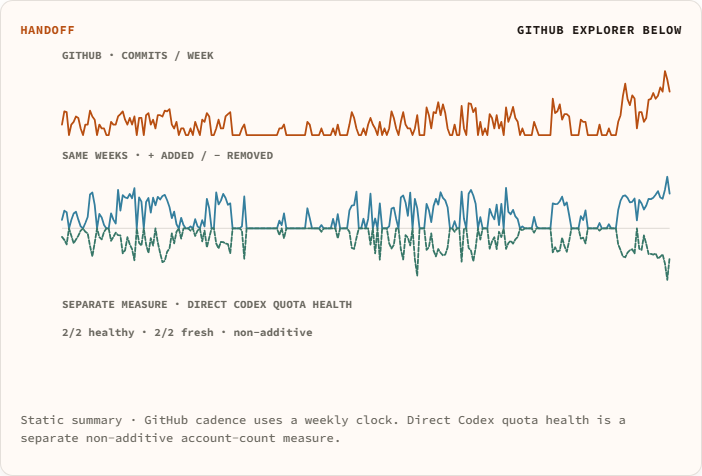
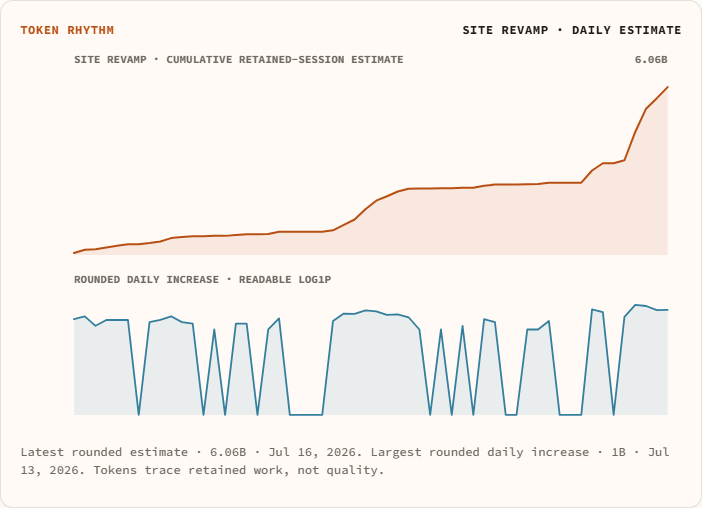
Document Build Rhythm token evidence

diff --git a/test/test_build_rhythm_story.py b/test/test_build_rhythm_story.py
@@ -9,6 +9,8 @@ REPO_ROOT = Path(__file__).resolve().parents[1]
 PAGE_PATH = REPO_ROOT / "_pages" / "github-activity.md"
 CASE_STUDY_PATH = REPO_ROOT / "_projects" / "build-rhythm.md"
 REPRODUCTION_PATH = REPO_ROOT / "assets" / "downloads" / "site-experiments" / "build-rhythm-reproduction.md"
+HEURISTICS_PATH = REPO_ROOT / "WEBSITE_DESIGN_HEURISTICS.md"
+LEDGER_DOC_PATH = REPO_ROOT / "docs" / "agentic-usage-ledger.md"
 SCRIPT_PATH = REPO_ROOT / "assets" / "js" / "github-activity.js"
 STYLE_PATH = REPO_ROOT / "_sass" / "_github-activity.scss"
 PACKAGE_PATH = REPO_ROOT / "package.json"
@@ -22,6 +24,8 @@ class BuildRhythmStoryTests(unittest.TestCase):
         cls.page = PAGE_PATH.read_text(encoding="utf-8")
         cls.case_study = CASE_STUDY_PATH.read_text(encoding="utf-8")
         cls.reproduction = REPRODUCTION_PATH.read_text(encoding="utf-8")
+        cls.heuristics = HEURISTICS_PATH.read_text(encoding="utf-8")
+        cls.ledger_doc = LEDGER_DOC_PATH.read_text(encoding="utf-8")
         cls.script = SCRIPT_PATH.read_text(encoding="utf-8")
         cls.style = STYLE_PATH.read_text(encoding="utf-8")
         cls.package = PACKAGE_PATH.read_text(encoding="utf-8")
@@ -109,12 +113,16 @@ class BuildRhythmStoryTests(unittest.TestCase):
         self.assertIn('class: "github-activity-add-line"', self.script)
         self.assertIn('class: "github-activity-remove-line"', self.script)
 
-    def test_case_study_and_reproduction_match_the_direct_tracker(self) -> None:
+    def test_case_study_and_reproduction_match_all_three_sources(self) -> None:
         for phrase in (
             "two-account Codex quota health",
             "complete two-account quota-health observation",
             "one-account historical context",
             "7e224db12",
+            "Three sources, never one score",
+            "deduplicated retained logs attributed to this repo",
+            "Differences between adjacent points are rounded increases",
+            "6edea07f4",
         ):
             with self.subTest(phrase=phrase):
                 self.assertIn(phrase, self.case_study)
@@ -124,14 +132,23 @@ class BuildRhythmStoryTests(unittest.TestCase):
             "Quota windows remain per-account and non-additive",
             "rounded personal token checkpoint",
             "missing observation must never render as a false zero",
+            "The exact point keys are `date`, `token_count`, and `tokens_label`",
+            "three separate clocks",
+            "server-rendered daily token summary and table",
+            "Differences between adjacent rounded points are rounded increases, not exact daily usage.",
         ):
             with self.subTest(phrase=phrase):
                 self.assertIn(phrase, self.reproduction)
+
+        self.assertIn("change provenance, not the privacy boundary", self.heuristics)
+        self.assertIn("`total.token_rhythm` reprojects those same deduplicated repo events", self.ledger_doc)
+        self.assertIn("each point contains only `date`, `token_count`, and `tokens_label`", self.ledger_doc)
 
         for stale_phrase in (
             "dated 30-day Codex snapshot",
             "shorter clock of recent Codex use",
             "Keep tool-use tokens on their own truthful horizon",
+            "two-measure data boundary",
         ):
             with self.subTest(stale_phrase=stale_phrase):
                 self.assertNotIn(stale_phrase, self.case_study)

diff --git a/test/test_site_experiments.py b/test/test_site_experiments.py
@@ -116,11 +116,13 @@ class SiteExperimentsTests(unittest.TestCase):
                 self.assertTrue(path.is_file(), f"missing {relative_path}")
                 self.assertGreater(path.stat().st_size, 20_000)
 
-    def test_build_rhythm_teaser_matches_the_approved_quota_health_capture(self) -> None:
+    def test_build_rhythm_teaser_matches_the_approved_token_rhythm_capture(self) -> None:
         teaser = REPO_ROOT / "assets" / "img" / "project_pics" / "site-experiments" / "build-rhythm-stage.png"
         payload = teaser.read_bytes()
+        self.assertEqual(payload[:8], b"\x89PNG\r\n\x1a\n")
+        self.assertEqual((int.from_bytes(payload[16:20], "big"), int.from_bytes(payload[20:24], "big")), (702, 508))
         blob_hash = hashlib.sha1(f"blob {len(payload)}\0".encode() + payload).hexdigest()
-        self.assertEqual(blob_hash, "b0f16d22afc48d04ec972cafd9b74a0bd20f111b")
+        self.assertEqual(blob_hash, "a85dfb18c584fdd064e92afe59a07daee37884a6")
 
     def test_homepage_desk_capture_pair_has_pinned_state_and_provenance(self) -> None:
         asset_root = REPO_ROOT / "assets" / "img" / "project_pics" / "site-experiments"

diff --git a/_projects/build-rhythm.md b/_projects/build-rhythm.md
@@ -1,9 +1,9 @@
 ---
 layout: page
 title: Build Rhythm
-description: A privacy-safe activity view that keeps anonymous two-account Codex quota health separate from long-term GitHub build rhythm.
+description: A privacy-safe activity story that keeps repo-scoped retained-session tokens, anonymous two-account Codex quota health, and long-term GitHub build rhythm on separate clocks.
 img: assets/img/project_pics/site-experiments/build-rhythm-stage.png
-image_aspect: 3 / 2
+image_aspect: 351 / 254
 card_avoid_scaling: true
 importance: -30
 category: fun
@@ -20,13 +20,13 @@ hide_title: true
     <p class="project-case-kicker">Site experiment · first seen July 11, 2026</p>
     <h1>Build Rhythm</h1>
     <p class="project-case-lede">
-      A public record of building cadence without pretending commits, changed lines, or account health measure productivity. The page keeps GitHub history and a dated, anonymous Codex quota-health observation on visibly different clocks, then lets visitors inspect the exact aggregate evidence.
+      A public record of building cadence without pretending commits, changed lines, retained-session tokens, or account health measure productivity. The page keeps weekly GitHub history, a rounded daily cumulative repo estimate, and a dated anonymous Codex quota-health observation on visibly different clocks.
     </p>
     <div class="project-case-facts">
       <span>Cadence, not productivity</span>
       <span>Aggregate data only</span>
-      <span>Two measures, never one score</span>
-      <span>Exact GitHub table</span>
+      <span>Three sources, never one score</span>
+      <span>Exact GitHub + rounded token tables</span>
     </div>
     <div class="project-case-actions">
       <a href="{{ '/github-activity/' | relative_url }}">Open Build Rhythm</a>
@@ -37,8 +37,8 @@ hide_title: true
 
 <section class="project-case-summary" aria-label="Build Rhythm summary">
   <div><span>Question</span><p>How can a public activity page show cadence and change without turning them into a score?</p></div>
-  <div><span>Evidence</span><p>Weekly commits, additions, and deletions stay separate from a dated, complete two-account quota-health observation; one rounded personal checkpoint remains labeled as one-account historical context.</p></div>
-  <div><span>Boundary</span><p>No repository names, account identifiers, raw quota percentages, reset times, cost theater, causal claims, or productivity ranking.</p></div>
+  <div><span>Evidence</span><p>Weekly commits and line changes, a rounded daily cumulative repo-token estimate, and a dated complete two-account quota-health observation remain visibly separate; one rounded personal checkpoint stays labeled as one-account historical context.</p></div>
+  <div><span>Boundary</span><p>No repository names, session or account identities, event-level records, raw quota percentages, reset times, cost theater, causal claims, or productivity ranking.</p></div>
 </section>
 
 ## Origin
@@ -47,7 +47,9 @@ The first version began as a research-grounded activity workbench. John Thompson
 
 ## What the page protects
 
-Commits describe cadence. Additions and deletions describe the magnitude and direction of a change. The direct Codex tracker counts anonymous accounts that were healthy, fresh, and able to report quota windows at one complete observation; those windows remain per-account and non-additive. A rounded personal lifetime checkpoint stays separately dated and scoped to one of two accounts. None of these measures explains quality or cause, so the interface keeps units, coverage, and provenance visible instead of morphing them into one synthetic score.
+Commits describe cadence. Additions and deletions describe the magnitude and direction of a change. The token rhythm comes from deduplicated retained logs attributed to this repo, grouped on a Pacific daily clock and published only as rounded cumulative points. Differences between adjacent points are rounded increases, not exact daily usage, and the estimate can revise when retained local evidence changes.
+
+The direct Codex tracker counts anonymous accounts that were healthy, fresh, and able to report quota windows at one complete observation; those windows remain per-account and non-additive. A rounded personal lifetime checkpoint stays separately dated and scoped to one of two accounts. No session, turn, model, path, account, or event-level identity enters the daily series. None of these measures explains quality or cause, so the interface keeps units, coverage, and provenance visible instead of morphing them into one synthetic score.
 
 <ol class="site-experiment-ledger" aria-label="Build Rhythm iteration record">
   <li><time datetime="2026-07-11">Jul 11</time><code>b4203f3ea</code><span>Introduced the activity view with keyboard inspection, an exact table, and a privacy-safe fallback.</span></li>
@@ -56,12 +58,13 @@ Commits describe cadence. Additions and deletions describe the magnitude and dir
   <li><time datetime="2026-07-14">Jul 14</time><code>1b07cea4c</code><span>Restored additions and deletions with readable and literal scales plus stronger responsive evidence.</span></li>
   <li><time datetime="2026-07-15">Jul 15</time><code>6b4b7bd59</code><span>Added a scroll-led reading that teaches cadence, magnitude, scale, and the separate Codex clock before handing control to the exact explorer.</span></li>
   <li><time datetime="2026-07-16">Jul 16</time><code>7e224db12</code><span>Replaced account-linked token history with anonymous two-account quota-health counts, retaining only a clearly scoped one-account personal checkpoint as historical context.</span></li>
+  <li><time datetime="2026-07-16">Jul 16</time><code>6edea07f4</code><span>Restored the token-over-time story as a rounded daily cumulative repo estimate from deduplicated retained logs, without restoring the account-linked history removed earlier that day.</span></li>
 </ol>
 
 <aside class="site-experiment-reproduce" aria-labelledby="build-rhythm-reproduce-title">
   <p class="project-case-kicker">Reproduce the pattern</p>
   <h2 id="build-rhythm-reproduce-title">Use your own aggregate record.</h2>
-  <p>The downloadable guide covers the two-measure data boundary, narrative chapters, accessible explorer, reduced-motion state, and acceptance checks for another site.</p>
+  <p>The downloadable guide covers the three-source data boundary, narrative chapters, accessible evidence, reduced-motion state, and acceptance checks for another site.</p>
   <a href="{{ '/assets/downloads/site-experiments/build-rhythm-reproduction.md' | relative_url }}" download>Download the coding-agent brief</a>
 </aside>
 

diff --git a/assets/downloads/site-experiments/build-rhythm-reproduction.md b/assets/downloads/site-experiments/build-rhythm-reproduction.md
@@ -4,44 +4,51 @@ Use this brief to create a site-native activity story from your own aggregate da
 
 ## Visitor problem
 
-Help a reader understand cadence, change, and a separate account-health observation without implying that any of them measures productivity, quality, or cause.
+Help a reader understand cadence, change, a repo-scoped token rhythm, and a separate account-health observation without implying that any of them measures productivity, quality, or cause.
 
 ## Data boundary
 
 - Publish dated aggregates only. Never ship repository names, commit messages, credentials, account aliases, account identifiers, plans, raw quota percentages, reset times, or exact per-account usage.
 - Keep GitHub commits, additions, and deletions on one weekly calendar.
+- Build a repo-token rhythm only from a separate public evidence source: deduplicated retained logs attributed to that repo. Declare one reporting timezone, group by day, fill quiet dates, and publish cumulative rounded values rather than session or event records.
+- The exact point keys are `date`, `token_count`, and `tokens_label`. Dates must be consecutive, counts must be nonnegative and nondecreasing, and the latest point must match the public rounded repo total. Differences between adjacent rounded points are rounded increases, not exact daily usage.
+- Fail closed if the token source is missing or malformed. Never include session, turn, model, path, raw-event, account, quota, or cost fields in the series. The estimate may revise when retained evidence changes, so expose its cutoff, freshness, method, and estimate confidence.
 - Keep direct quota health on its own observation date and report only anonymous account counts. Quota windows remain per-account and non-additive.
 - If you retain a rounded personal token checkpoint as historical context, label its date and one-account coverage; never present it as a multi-account total or current quota health.
-- Do not combine the measures into one score or animate a static snapshot as live activity.
+- Do not combine the three sources into one score or animate a static snapshot as live activity.
 
 ## Suggested structure
 
 1. Cadence: weekly commits, explicitly labeled as cadence rather than productivity.
 2. Magnitude and direction: additions and deletions around the same selected week.
 3. Readable and literal: explain any log or symmetric-log transform while preserving exact values.
-4. Change the measure: reset before showing a dated anonymous account-health observation, and explain why its quota windows cannot be summed.
-5. Explorer: range, scale, keyboard inspection, and exact tables.
+4. Token accumulation: show the rounded daily cumulative repo estimate and its rounded adjacent-point increases as a workload trace, not a quality score.
+5. Change the measure: reset before showing a dated anonymous account-health observation, and explain why its quota windows cannot be summed.
+6. Explorer: range, scale, keyboard inspection, and the exact GitHub table.
 
 ## Interaction contract
 
 - Use normal scroll and a bounded SVG story; do not hijack wheel or touch input.
 - One selected period synchronizes chart marks, readout, annotation, and table row.
 - Provide focusable marks or an equivalent slider with arrow, Home, and End keys.
+- Keep a server-rendered daily token summary and table outside any `aria-hidden` chart so the rounded endpoint and source points remain available without JavaScript.
 - Reduced motion switches chapters immediately to complete still states.
 - Pause work when the story is offscreen or the tab is hidden.
 
 ## Acceptance checks
 
 - Verify desktop, laptop, tablet, and narrow mobile.
-- Verify keyboard inspection, visible focus, exact tables, and horizontal-table guidance.
+- Verify keyboard inspection, visible focus, the exact GitHub table, the rounded daily token table, and horizontal-table guidance.
 - Verify no productivity, cost, plan-price, or causal language slips into the interface.
+- Verify token dates are consecutive, counts are safe nonnegative integers and nondecreasing, point keys are exact, and the latest label equals the public repo total.
+- Verify a missing, malformed, or privacy-unsafe token source leaves the GitHub explorer and server-rendered token evidence intact while withholding the enhanced token chart.
 - Verify complete and pending account-health states both remain truthful; a missing observation must never render as a false zero.
 - Verify any personal token checkpoint remains visibly historical, rounded, and scoped to one account.
 - Verify loading failure leaves a readable explanation and server-rendered context.
 
 ## Copy-ready coding-agent prompt
 
-> Build an evidence-first activity story for my site using only my dated aggregate data. Keep weekly commits and line changes separate from anonymous account-health counts; never sum per-account quota windows. If I supply a rounded historical token checkpoint, label its date and one-account coverage instead of treating it as current or additive. Use normal scrolling, one bounded transition, keyboard inspection, exact tables, a reduced-motion still state, and clear source/freshness labels. Do not publish repository names, account identifiers, raw events, credentials, percentages, reset times, cost theater, productivity rankings, or causal claims. Match my site's typography, color roles, and responsive system. Test the same important states at desktop, laptop, tablet, and narrow mobile widths.
+> Build an evidence-first activity story for my site using only dated aggregates. Keep weekly GitHub cadence, a daily cumulative repo-token estimate, and dated anonymous account health on three separate clocks; never sum per-account quota windows. Derive the token rhythm only from deduplicated repo-attributed retained logs, use consecutive Pacific dates with quiet-day fill and rounded nondecreasing points, and expose a server-rendered daily table. Treat adjacent differences as rounded increases, not exact daily use. Fail closed on missing or malformed token data and never publish session, turn, model, path, account, quota, raw-event, or cost fields. If I supply a rounded historical personal checkpoint, label its date and one-account coverage instead of treating it as current or additive. Use normal scrolling, one bounded transition, keyboard inspection, an exact GitHub table, a reduced-motion still state, and clear source/freshness labels. Do not claim productivity, quality, or cause. Match my site's typography, color roles, and responsive system. Test desktop, laptop, tablet, narrow mobile, keyboard, reduced motion, and invalid-data fallback states.
 
 ## Credit
 

diff --git a/docs/agentic-usage-ledger.md b/docs/agentic-usage-ledger.md
@@ -32,6 +32,7 @@ Evidence and counting contract:
 
 - The audit recursively scans every retained year under `~/.codex/sessions`, then includes JSONL files whose **first** `session_meta.payload.cwd` contains `dylantao.github.io`. The first metadata record is the leaf identity; later session metadata can be copied parent ancestry.
 - Ordered `turn_context` records supply `turn_id`, `model`, and `effort`. For modern logs, token ancestry is globally deduped by `(turn_id, full total_token_usage snapshot)`, retaining the earliest event, and the unique `last_token_usage` deltas are summed.
+- `total.token_rhythm` reprojects those same deduplicated repo events into Pacific calendar days from the revamp cutoff, fills quiet dates, accumulates the events, and rounds each cumulative point with the public ledger's existing token-label rule. Its exact top-level schema records version, label, units, daily grain, cumulative aggregation, method, cutoff, freshness, estimate confidence, privacy note, and `points`; each point contains only `date`, `token_count`, and `tokens_label`. It publishes no session, turn, model, path, account, quota, raw-event, or cost fields. The series can revise when retained evidence changes, while an entirely unavailable repo scan preserves the last published history instead of writing a destructive zero.
 - Legacy events without `last_token_usage` use positive cumulative deltas. Their complete five-field snapshots are conservatively deduped across files; an accidental exact collision between independent legacy sessions could undercount, but this avoids the larger known error of summing copied fork ancestry.
 - An explicit `forked_from_id` (or the unambiguous nested subagent `parent_thread_id` fallback) marks contextless token events before the leaf's first `turn_context` as copied fork preamble. These are counted as skipped ancestry, not `unknown/unknown` child usage.
 - Active agent-hours use globally unique context/token events per leaf session, with gaps capped at 45 minutes. Parallel leaf sessions remain additive. A gap belongs to the model/effort active at its start, so a new context does not claim the time preceding it.
@@ -406,6 +407,9 @@ Every dollar figure above is an API-rate estimate, not the actual Codex product,
 - Paired desk-scene evidence checkpoint: published same-context 2D and 3D default-state captures, made the current 3D frame the project teaser, and recorded the accepted Jul 14 reciprocal cliff-room architecture separately from the later shared-control/test stabilization. The case study keeps the historical June frame, carries machine-readable source, viewport, theme, DPR, and interaction-state provenance for the new pair, and explicitly avoids claiming that a model change caused the design improvement.
 - Checkpoint totals: 364 revamp commits including the pending desk-evidence commit, 6.01B rounded retained-session tokens, 424 rounded agent-hours, 3606 kWh, about 2.2 ten-year urban trees' stored-carbon equivalent, and about $5.1K under the request-aware API-rate replay. The desk window remains 119 path-scoped commits and moved to 4.92B rounded tokens and 310 hours; the since-`gpt-5.6-sol` window moved to 69 commits, 3.4B tokens, and 185 hours, while the separate retained-local replay remains 16.4B rounded tokens and 876 hours.
 - Evidence: `python bin/audit_agentic_usage.py --write --include-pending-commit` scanned 671 local and 275 repo-attributed leaf sessions, retained 42,618 additive usage-event sources after skipping 238,307 copied/repeated snapshots and 122,772 fork-preamble events, and observed 821 retained post-cutover turns with 23 acknowledged and zero unacknowledged deviations. The full Python suite passed 93 tests; repository-wide Prettier, the style contract, the production `/al-folio` build, `git diff --check`, and the local-override audit passed. The focused same-context capture passed once, the desk project and projects-index route matrix passed all eight four-viewport light/dark cases, and the full desk-scene matrix passed 18 applicable cases with 34 intentional viewport guards.
+- Build Rhythm repo-token checkpoint: restored the original token-over-time intent from a separate repo-scoped retained-log aggregate without restoring removed account-linked history. The page now teaches a rounded daily cumulative rhythm and rounded adjacent-point increases, keeps weekly GitHub activity and dated direct-account health on separate clocks, exposes a server-rendered daily table, isolates malformed token data from the GitHub explorer, and carries the exact `6edea07f4` implementation checkpoint through the case study, reproduction brief, living heuristic, and dedicated token-scene teaser. The same browser proof also made the existing Paper Constellation-to-citation/Scholar linking explicit and added four-viewport route coverage for the Dogtor, Scholar Lens, and Wall of Rejection case studies.
+- Checkpoint totals: 366 revamp commits including the pending evidence/documentation commit, 6.07B rounded retained-session tokens, 429 rounded agent-hours, 3642 kWh, about 2.3 ten-year urban trees' stored-carbon equivalent, and about $5.2K under the request-aware API-rate replay. The desk window remains 119 path-scoped commits and moved to 4.98B rounded tokens and 315 hours; the since-`gpt-5.6-sol` window moved to 71 commits, 3.46B tokens, and 190 hours, while the separate retained-local replay is 16.5B rounded tokens and 882 hours.
+- Evidence: the pending audit scanned 674 local and 278 repo-attributed leaf sessions, retained 43,111 additive usage-event sources after skipping 247,652 copied/repeated snapshots and 122,772 fork-preamble events, and observed 830 retained post-cutover turns with 23 acknowledged and zero unacknowledged deviations. The full Python suite passed 100 tests plus the style contract and JavaScript syntax checks; repository-wide Prettier, the production `/al-folio` build, publication/AI-readable output validation, `git diff --check`, and the local-override audit passed. The focused four-viewport light/dark route and token-story matrix passed 25 applicable cases with three intentional single-desktop fallback skips, the fuller Build Rhythm motion/fallback matrix passed seven applicable cases with nine intentional viewport guards, and the corrected legacy desktop/WebKit usage-story slice passed both cases.
 
 ## Future Entry Template
 

diff --git a/WEBSITE_DESIGN_HEURISTICS.md b/WEBSITE_DESIGN_HEURISTICS.md
@@ -316,7 +316,7 @@ Current accepted intent record:
 
 - Research-motion kinetic response: the particles should make direct local engagement or a mode change perceptible without turning nearby page space into an invisible accelerator. Only a pointer inside the bounded canvas may raise a clamped speed/trail signal; the inner edge ramps in gently, exit decays to rest, explicit mode selection stays brief, and the field pauses offscreen or in a hidden tab, keeps a stable particle count, and becomes a still composition under reduced motion.
 - Desk tally wording: compact abbreviations made provenance harder to parse, so the in-scene note uses only explicit `commits` and `tokens`; it does not count up or imply live activity. That compact scene label is not a sitewide simplification rule: the fuller homepage ledger retains tokens, agent-hours, commits, and estimated kWh with its provenance caveat.
-- Build-rhythm evidence: commits describe cadence, while additions and deletions describe change magnitude and direction; neither substitutes for the other. Keep both views synchronized to the same selected week, provide readable and literal scales plus a reported-values table, and label them as build rhythm rather than productivity or causal evidence. On compact screens, shorten chart headings without dropping units or transform names, keep punctuation grouped with the value it introduces so wrapping never leaves an orphaned separator, and name the horizontal reading path when the exact table preserves more columns than the viewport can show. Cost and subscription-tier overlays stay absent unless a future claim has defensible provenance.
+- Build-rhythm evidence: commits describe cadence, while additions and deletions describe change magnitude and direction; neither substitutes for the other. Keep both views synchronized to the same selected week, provide readable and literal scales plus a reported-values table, and label them as build rhythm rather than productivity or causal evidence. On compact screens, shorten chart headings without dropping units or transform names, keep punctuation grouped with the value it introduces so wrapping never leaves an orphaned separator, and name the horizontal reading path when the exact table preserves more columns than the viewport can show. Cost and subscription-tier overlays stay absent unless a future claim has defensible provenance. When privacy review removes an account-linked history, change provenance, not the privacy boundary: restore only a rounded repo-scoped aggregate from separate public evidence, keep direct-account health on its own observation clock, and describe differences between rounded cumulative points as a workload trace rather than exact daily use, quality, or productivity.
 - Desk-mode continuity: visitors need the quick 2D collage and exploratory 3D room to feel related without becoming duplicate scenes. Both modes preserve the same record identity, spin state, discovery order, artwork, and paper/album language; only an explicit mode choice changes representation, reduced motion keeps the same settled state, and both modes share one stable stage height at each breakpoint so switching representation does not shift the surrounding page.
 - Canvas click-suppression boundary: suppress only the synthetic native click that follows a WebGL canvas gesture. Sibling mode, transport, and reset controls must remain immediately actionable, and interaction telemetry should expose a window or return target only while production picking can actually reach it. Acceptance should prove an immediate reset restores the front camera and window affordance before the genuine entry raycast.
 - Cliff-room continuity: the old outside view looked like a separate floating dollhouse, so inside and outside now use the same room scene graph under reciprocal camera states; there is no hand-matched exterior miniature to drift. The outside aperture mirrors the interior's screen ordering, sits measurably high in the live cliff mass with substantially more rock below than above, and connects through the cliff foot, beach, shoreline, and single ocean layer. Exterior framing should preserve enough coast below the cliff to ground that height; prefer a small camera-target correction over shrinking the aperture or adding decorative terrain. Only deliberate window activation enters outside mode; window activation returns, while Escape, reset, or scrolling away recover the room. Wheel zoom explores only the active view; the interior orbit clamps the camera inside the side, rear, and window-side room boundaries, while the exterior rear orbit adds clearance instead of clipping through the cliff. Compact canvases step the room scale down only as needed to keep rack, onsen, and lounge landmarks in frame, and acceptance requires regenerated, state-asserted default/side/rear/outside/mobile screenshots from the current served asset.